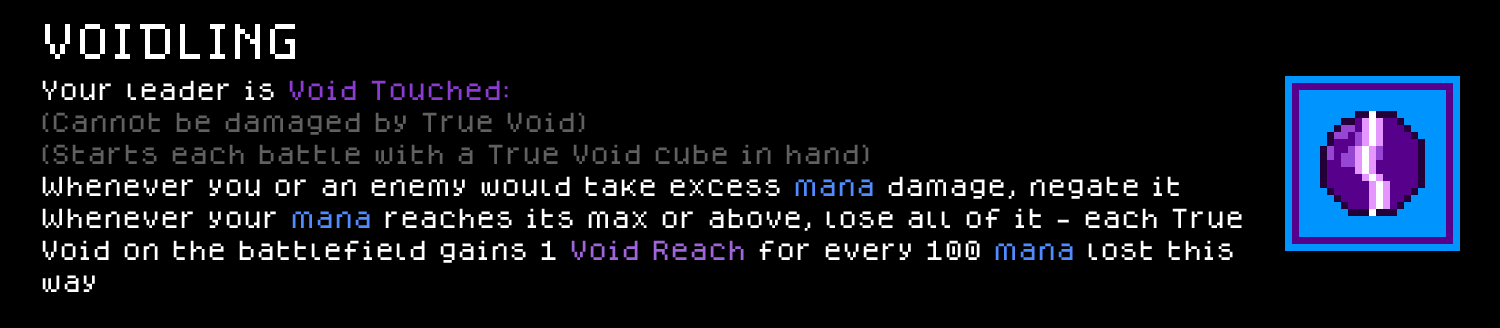
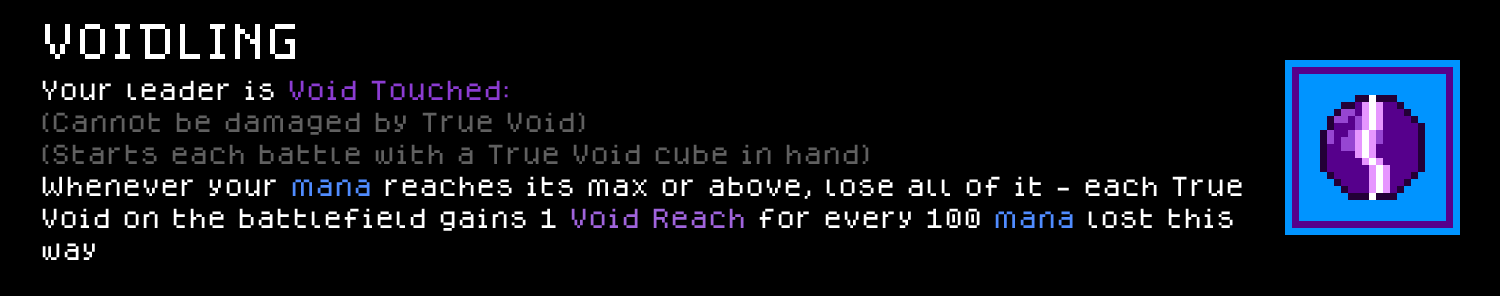
VoidExcessManaCapture moved to True Void

diff --git a/.claude/skills/cube-chaos-scripting/references/gotchas-grepped.md b/.claude/skills/cube-chaos-scripting/references/gotchas-grepped.md
@@ -40,6 +40,8 @@ conversion (TOKEN→IDENT).
 - **For a `BelongsTo: CLASS`/`SPECIES` perk's own "do something for MYSELF at the start of every battle" effect (grant a starting hand cube, run a one-time-per-battle computation over my own board state), use plain `Ability: AtTheStartOfTheBattle`, not `WorldAbility: AtTheStartOfTheBattle` — they are NOT interchangeable, confirmed by a real non-functional-in-play incident (2026-07-27), not just a parse difference.** Every real class in the base game grants its per-battle starting cube via the identical pattern, `Ability: AtTheStartOfTheBattle Both AddCubeToHandOfThis FreeCopy CubeConstant <X> RemoveThisAbility` (`Characters/Classes/*.c.txt`, all 10+ classes checked) — never `WorldAbility:`, and never `AddCubeToHandOfFactionInfinitly`/`AddCubeToHandOfFaction ... FactionOfCube Caster`. The General mod's new class-perk additions (a battle-start placement-zone-halving computation plus two hand-grants for `Claim`/`Retreat`) were first written as `WorldAbility: AtTheStartOfTheBattle` using `FactionOfCube Caster` throughout (to mean "my own side") and `AddCubeToHandOfFactionInfinitly CUBE FactionOfCube Caster` for the grants — this parsed with zero errors/warnings and looked structurally identical to real `WorldAbility:` precedent (`Main/NeutralPerks.c.txt`'s `Map_Compression`, the curses in `Main/Curses.c.txt`), but **user-confirmed in actual play: neither the halving nor the hand-grants ever happened**, while the same perk's pre-existing plain `Ability:` chains (the Strength-1-in-enemy-territory bonus) worked correctly the whole time. Every real `WorldAbility:` precedent that could be found either uses `Caster` purely as a scratch-variable holder with no faction check at all (`Map_Compression`), or is a curse checking `Victim`/`Target`'s faction, never `Caster`'s own (curses by nature target "the enemy," so they never needed "my own side" logic) — meaning there was never actually a confirmed real precedent of `WorldAbility:` + `FactionOfCube Caster` meaning "the perk owner," it was an unverified extrapolation from `Ability:`-context behavior. Switching all four affected lines from `WorldAbility:` to plain `Ability:` (keeping every other token identical, including `FactionOfCube Caster`) and switching the two hand-grants to `AddCubeToHandOfThis FreeCopy CubeConstant <X> RemoveThisAbility` fixed both effects, confirmed via the same real playtest. **Rule of thumb: `WorldAbility:` is for curses/neutral/global-scope effects that don't need "my own side" faction logic; a class/species's own self-directed per-battle behavior belongs on plain `Ability:`, even for `AtTheStartOfTheBattle`/`EveryXSeconds`-style periodic triggers that aren't reacting to a specific board event.**
 - **`XDelay DOUBLE Action` does not preserve the `Caster` binding for its delayed `Action` — every real usage anywhere in this repo only wraps bare, self-contained actions (`Die`, `Exile`, `RemoveThisAbility`), never `TargetCube Caster`/`GetVariableOnCube ... Caster`/`SetVariable`-based logic, and that gap turns out to be load-bearing, not incidental.** Real incident, the General mod's `Annex`/`Retreat` cubes (2026-07-27): first written as `Ability: AfterThisIsCreated XDelay DoubleConstant N Both <TargetCube-Caster-heavy column-claim/loss loop> Die` — parsed with zero errors, but **user-confirmed in actual play: the trailing bare `Die` fired correctly after the delay, while every `TargetCube Caster`/`GetVariableOnCube ... Caster`-based tile-ownership change inside the same delayed action silently did nothing** (Retreat died on schedule but never gave up even its own column; Annex's whole effect looked like it "wasn't ticking" at all). The fix: replace the `AfterThisIsCreated XDelay DoubleConstant N (...)` wrapper with `EveryXSeconds DoubleConstant N (...)` and drop `XDelay` entirely, keeping the rest of the chain (including the `Caster`-based loop and the trailing `Die`) byte-for-byte identical — `EveryXSeconds` has confirmed real precedent for `Caster`/variable-heavy logic (this same file's `Artillery`/`Bunker` cubes), fires its first tick at t=N not t=0 (confirmed via the base game's own `Doomed` compound, `EverySecond`+`1Shot Die` → "after 1 second this dies"), and since the effect ends in `Die` the cube can't survive to re-trigger, so no `1Shot` guard is needed. **Rule of thumb: for "wait N seconds, then run an effect that reads/writes this cube's own variables or targets `Caster`, then die," reach for `EveryXSeconds DoubleConstant N` (optionally `1Shot`-guarded if the effect *doesn't* end in `Die`), never `AfterThisIsCreated` + `XDelay`** — `XDelay` is confirmed safe only for delaying a bare terminal action with no `Caster`/variable dependency.
 - **`EveryCubeWhich BOOLEAN Action`: use `Test` to refer to the loop candidate inside the Action body, not `Target`, despite `Test`/`Target` being documented elsewhere as interchangeable.** Every proven-working real usage of `EveryCubeWhich` in this repo (`Voidling_Cubes.c.txt`'s `Calm_The_Waves`, `Voidling_Species.c.txt`'s `VoidReachSurge`) binds the candidate via `Test` inside the Action body too, not just the BOOLEAN predicate — `EveryCubeWhich CubeHasName Test True_Void TargetCube Test GainAbility ...`. Real incident, the Voidling mod's `Void_Warrior`: a "scan every True Void, track the highest `VoidExpansionX` stacking seen" loop written with `GetStackingOfAbilityOnCube VoidExpansionX Target` (instead of `Test`) inside the loop's `Action` body parsed with zero errors, but **user-confirmed in actual play: it always computed 0 even with a True Void on the battlefield holding 3 stacks of Void Reach** — consistent with `Target` there silently resolving to `Caster` (the newly-created cube itself, which genuinely has 0) rather than the loop's iterated candidate. Switching both occurrences of `Target` to `Test` (no other change) is the fix applied; not confirmed by isolation testing against a minimal repro, but it now matches every other real `EveryCubeWhich` usage in the codebase and directly explains the observed symptom. Treat the "Test/Target are interchangeable" claim in this skill's Implicit target resolution section as unproven specifically for `EveryCubeWhich`'s own Action-body binding until a counter-example is found — default to `Test` there regardless of nesting depth.
+- **Faction numbers are `1` = the player/allies, `2` = the enemy — confirmed ground truth, not inferred.** `Main/Specifics/Special_Perks.c.txt:176/185/194` pairs three real perks that are otherwise near-identical except this one literal: `WorldAbility: BeforeManaIsGenerated If IsEqual EventFaction DoubleConstant 2 NegateX ...` (`Enemy_Blue_Chains`, "Enemies generate a third less mana") vs. the same line with `DoubleConstant 1` on `Blue_Chains`/`Eternal_Chains` ("Allies generate a third less mana"). Use these literals directly (`DoubleConstant 1`/`DoubleConstant 2`) wherever an ability needs to mean "the player specifically" or "the enemy specifically" independent of who currently owns/casts the ability — see the next bullet for exactly when that independence matters.
+- **`FactionOfThis` resolves to the ability holder's own current faction — which breaks if that holder's faction isn't fixed to the player, most commonly a cube carrying `AlwaysNeutral`.** `FactionOfThis` (`ModdingInfo.txt:685`) takes no CUBE argument, so on a `PERK:` (always owned by the player) it's a safe, common shorthand for "the player's faction" — e.g. Voidling's `VoidExcessManaCapture` originally lived on `PERK: Voidling` and used `FactionXGainsYMana FactionOfThis EventAmount` to always credit the player, regardless of whose excess-mana damage triggered it. **Real incident (2026-07-30): moving that same `Ability:` line onto `CUBE: True_Void` (which carries `AlwaysNeutral`, "This always turns neutral") would have silently redirected the captured mana to the neutral faction instead of the player** — caught in the design-preview gate before writing, by tracing what `AlwaysNeutral` actually does (`ModdingInfo.txt:47`) rather than assuming `FactionOfThis` still meant "the player" once the ability's host changed. Fixed by replacing `FactionOfThis` with the explicit `DoubleConstant 1` (see the faction-numbers bullet above) — same effect as before (always credits the player), now independent of the caster's own faction. **Whenever an `Ability:` is moved from a `PERK:` (or any player-owned holder) onto a `CUBE:` that is or could become neutral/enemy-owned, re-check every `FactionOfThis`/`SetFaction FactionOfThis`-style reference in that ability** — it silently follows the new host's faction instead of raising a parse error, so a "no-op" refactor (same DSL, different host) can change behavior with zero log warning.
 - **The "Temporary:" keyword header a player sees in a tooltip is the built-in `DieAfterX TIME` ability, not something separately named `Temporary` in the DSL** — easy to miss since `ModdingInfo.txt` lists it under `DieAfterX`, and the only place the word "Temporary" itself appears is (a) `DieAfterX`'s own doc string, `\C200 200 200 Temporary: \CN This dies after CODE 1` (`ModdingInfo.txt:107`), and (b) a separate hover-glossary entry, `Base_Core/ToolTipText.c.txt:88`'s `TEXTTOOLTIP: TEMPORARY` ("kills the cube after X time, the timer restarts if the death is prevented") — a glossary popup shown when hovering the colored word "Temporary" in any tooltip, not an invocable ability of its own. There is no standalone `Ability: Temporary`/`COMPOUND: ABILITY Temporary` anywhere in the base game or any mod — grepping for one returns nothing. **To grant "this cube expires after N seconds" (the actual base-game "Temporary" keyword), use `Ability: DieAfterX <ticks>` directly** — it's a stock built-in with its own tooltip, so it needs no local `Text:`. A silent variant, `SilentDieAfterX TIME` ("dies after CODE 1 without triggering anything"), exists too for when the expiry shouldn't fire on-death reactions. Real usage, the Voidling mod's `Void_Replika` (`Voidling_Cubes.c.txt`): initially over-built as a custom `EveryXSeconds`+`RemoveAbilityWithName`-per-ability chain to strip a copied True Void's 5 abilities back off after 30 seconds — the user pointed out this was reinventing the wheel and the whole cube should just die after 30 seconds instead, fixed to a single `Ability: DieAfterX <N>` line with the elaborate strip-chain deleted entirely. **When a request says a cube/effect should be "temporary" for N seconds, check whether the cube itself expiring (`DieAfterX`) is the actually-intended design before building a custom per-ability reversal mechanism** — the custom route is only warranted when specific abilities need to peel off while the cube keeps living.
   - **`TIME`-typed arguments (`DieAfterX`, `ChargeEveryX`, `HomingX`, `FleeEveryX`, `EveryXMeleeY`, `RandomMovementX`, `ProjectileX`, `TransformX`, etc.) are in TICKS at 60 ticks per real-world second, NOT literal seconds — a genuinely different unit from the `DOUBLE`-typed duration arguments (`EveryXSeconds DoubleConstant N`, `Cooldown DoubleConstant N`), which this same file already documents as plain real seconds.** Confirmed by real user playtest, not inference: `Void_Replika`'s first attempt used `Ability: DieAfterX 30` intending 30 real seconds — the cube actually died after 0.5 seconds in play, i.e. exactly `30 ÷ 60`. Fixed to `Ability: DieAfterX 1800` (`30 × 60`) for the intended 30-second lifespan. This also retroactively explains why real base-game `TIME` values look huge next to `DoubleConstant`-second values for comparable effects — e.g. DJ's `Note` token (`DJ_Cubes.c.txt`) has `DieAfterX 7200` (7200÷60 = 120s = a 2-minute safety-net expiry for a homing projectile) and `HomingX 60` (60÷60 = 1s retarget interval); General's `Shot` has `DieAfterX 300` (5s) and `ChargeEveryX 15` (0.25s, a fast bullet). **Always divide/multiply by 60 when converting between a `TIME` argument and a real-seconds duration a user asked for** — never copy a `DoubleConstant`-seconds value straight into a `TIME` slot or vice versa, they are not interchangeable units despite both ultimately meaning "a duration." (Ticks-per-second confirmed as exactly 60 by this one data point; if a future measurement ever disagrees, trust the newer measurement and correct this note.)
 - **`RemoveThisAbility` on an `Ability:`/`WorldAbility:` line does NOT persist across battles — it only suppresses re-triggering within the current battle. A `PERK:`'s `Ability:` chains are re-evaluated fresh from the static `.c.txt` definition every single battle, so anything "removed" via `RemoveThisAbility` is back and fully active again next battle.** This directly contradicts an earlier (wrong) version of this same entry, which claimed a self-removing `AtTheStartOfTheBattle Both RemoveThisAbility ChangeCampaignVariable <NAME> DoubleConstant 1` fires "exactly once ever." **Real incident, the General mod (2026-07-27): this exact pattern was used to register one stack of a class perk into `GENERAL_FRONTLINE_STACKS`, intended to add +1 once per run** — instead it added +1 *every single battle* (user-observed in actual play: the effect it drove compounded battle over battle, 1/2 → 1/4 → 1/8 of the board, instead of staying fixed at 1/2). Re-reading the real precedent this was copied from (`Curse_Of_Shields`) shows why it looked right but wasn't: that curse's "`+100` via a `RemoveThisAbility`-guarded `WorldAbility`" is paired with a *separate* `WorldAbility: AfterEndOfTheBattle SetCampaignVariable ENEMY_SHIELDS DoubleConstant 0` that resets the variable to 0 at the end of every battle — so its "+100 at battle start" is genuinely meant to re-fire every battle (100 fresh shield HP per battle), and the `RemoveThisAbility` there is just a same-battle re-trigger guard, never evidence of true once-per-run persistence. **There is no confirmed way to make an `Ability:`/`WorldAbility:` trigger fire only once for the whole run.** The real one-time-per-acquisition mechanism is **`ObtainAction:`** — it fires exactly once, when the perk itself is gained (class selection, chest pickup, etc.), never again on subsequent battles, confirmed by dozens of real base-game examples (`ObtainAction: ChangeCampaignVariable <NAME> DoubleConstant N`, e.g. `Main/Perks.c.txt:971`, `Main/GoldenPerks.c.txt:122`, `Characters/Species/Moil.c.txt:63`, and this exact perk's own pre-existing `ObtainAction: AddCubeToInventory CubeConstant Bunker` lines). **For a `PERK:`-level effect that needs to "stack" across potentially multiple independent sources** (the base perk plus some future separate upgrade/synergy perk), use `ObtainAction: ChangeCampaignVariable <NAME> DoubleConstant 1` on each contributing perk instead — genuinely fires once per acquisition, not once per battle. The actual per-battle *effect* that reads the accumulated count (`GetCampaignVariable <NAME>`) stays a separate, always-active `Ability: AtTheStartOfTheBattle` (recomputed fresh every battle from the live count, no `RemoveThisAbility` involved at all) — see the territory-halving idiom in `references/targeting-movement-board.md` for the full worked example (General mod's `GENERAL_FRONTLINE_STACKS`), now fixed to use `ObtainAction:` for the registration half.
